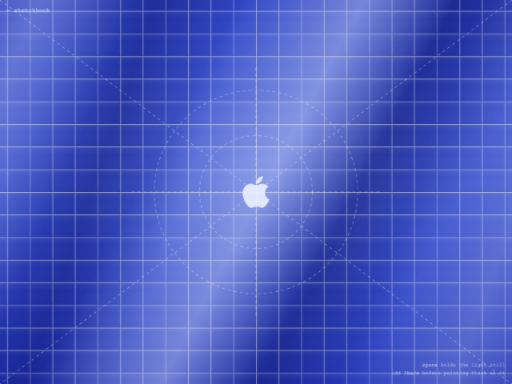
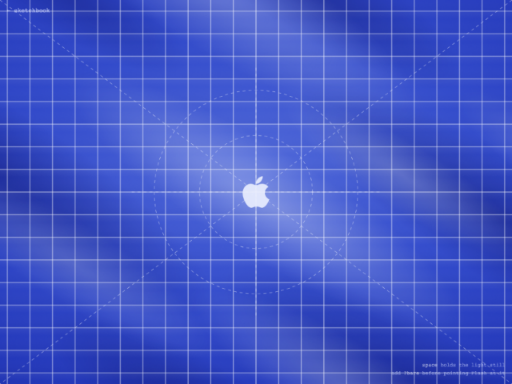
fix(blueprint): dappled shade, and lines drawn whole
The reference's shadows are tree-light, not stripes: the bands become
elongated dapple ellipses clustered where the oversized layer is
actually on screen, all laid on one diagonal by rotating the layer.
And the grid stops drawing itself as pattern-tile edges — a stroke on
a tile edge gets its glow clipped by the tile boundary and every line
came out lopsided. The lines are now whole strokes walked out from the
centre, sharing their coordinates with the crosshair exactly.

diff --git a/sketches/2026-08-blueprint/index.html b/sketches/2026-08-blueprint/index.html
@@ -21,22 +21,31 @@
     #hint kbd { color: #ffffff; font: inherit; }
     body.bare a.back, body.bare #hint { display: none; }
 
-    /* The weather layer: soft diagonal bands of light and shade, oversized so
-       they can wander without ever showing an edge. The softness lives in the
-       gradient stops themselves — no blur filter, so Plash pays almost nothing
-       to keep this on screen all day. */
+    /* The weather layer: dappled light and shade, like sun through leaves,
+       oversized so it can wander without ever showing an edge. Each patch is
+       an ellipse stretched along the layer's x-axis; the whole layer is then
+       rotated in sketch.js so every smear lies on the same diagonal. Softness
+       lives in the gradient falloff — no blur filter, so Plash pays almost
+       nothing to keep this on screen all day. */
     #streaks { position: fixed; inset: 0; overflow: hidden; }
-    .streak { position: absolute; inset: -30%; will-change: transform; }
+    .streak { position: absolute; inset: -75%; will-change: transform; }
+    /* The layer is 2.5x the viewport, so only positions near its middle are
+       ever on screen — the dapple clusters between 28% and 72% on purpose. */
     .streak.light { background:
-      linear-gradient(112deg, transparent 10%, rgba(235,242,255,0.28) 21%, transparent 30%),
-      linear-gradient(118deg, transparent 38%, rgba(240,246,255,0.38) 49%, transparent 57%),
-      linear-gradient(110deg, transparent 63%, rgba(235,242,255,0.24) 74%, transparent 86%);
+      radial-gradient(26% 8% at 50% 50%, rgba(240,246,255,0.32), transparent 70%),
+      radial-gradient(30% 9% at 36% 34%, rgba(240,246,255,0.30), transparent 70%),
+      radial-gradient(22% 7% at 64% 62%, rgba(240,246,255,0.26), transparent 70%),
+      radial-gradient(16% 5% at 58% 40%, rgba(240,246,255,0.22), transparent 70%),
+      radial-gradient(18% 6% at 40% 66%, rgba(235,242,255,0.20), transparent 70%),
+      radial-gradient(14% 5% at 68% 30%, rgba(240,246,255,0.20), transparent 70%);
     }
     .streak.dark { background:
-      linear-gradient(115deg, rgba(10,16,110,0.5) 0%, rgba(10,16,110,0.5) 5%, transparent 16%),
-      linear-gradient(109deg, transparent 26%, rgba(9,15,105,0.45) 35%, transparent 44%),
-      linear-gradient(117deg, transparent 52%, rgba(10,15,100,0.48) 60%, transparent 69%),
-      linear-gradient(112deg, transparent 80%, rgba(9,14,95,0.48) 91%, transparent 100%);
+      radial-gradient(30% 10% at 32% 62%, rgba(10,16,110,0.50), transparent 70%),
+      radial-gradient(26% 9% at 68% 38%, rgba(9,15,105,0.45), transparent 70%),
+      radial-gradient(20% 7% at 46% 28%, rgba(10,15,100,0.40), transparent 70%),
+      radial-gradient(22% 8% at 58% 72%, rgba(9,14,95,0.45), transparent 70%),
+      radial-gradient(16% 6% at 30% 42%, rgba(10,16,105,0.35), transparent 70%),
+      radial-gradient(28% 10% at 72% 58%, rgba(9,14,95,0.40), transparent 70%);
     }
 
     #geometry { position: fixed; inset: 0; width: 100vw; height: 100vh; display: block; }

diff --git a/sketches/2026-08-blueprint/sketch.js b/sketches/2026-08-blueprint/sketch.js
@@ -50,25 +50,23 @@ function rebuild() {
 
   const pat = el('pattern', {
     id: 'grid', width: cell, height: cell, patternUnits: 'userSpaceOnUse',
-    // Anchor the pattern so line crossings land on the exact centre.
+    // Anchor the pattern so tile seams land on the exact centre.
     x: cx % cell, y: cy % cell,
   }, defs);
   el('rect', { width: cell, height: cell, fill: 'url(#bevel)' }, pat);
-  el('rect', {
-    x: 2.5, y: 2.5, width: cell - 5, height: cell - 5, rx: 5,
-    fill: 'none', stroke: 'rgba(255,255,255,0.06)', 'stroke-width': 1,
-  }, pat);
-  // Two strokes per line: a wide faint one underneath reads as glow.
-  el('path', {
-    d: `M ${cell} 0 H 0 V ${cell}`,
-    fill: 'none', stroke: 'rgba(255,255,255,0.18)', 'stroke-width': 3.5,
-  }, pat);
-  el('path', {
-    d: `M ${cell} 0 H 0 V ${cell}`,
-    fill: 'none', stroke: 'rgba(255,255,255,0.65)', 'stroke-width': 1.3,
-  }, pat);
 
   el('rect', { width: w, height: h, fill: 'url(#grid)' }, svg);
+
+  // The lines are drawn whole, not as pattern-tile edges: a stroke on a tile
+  // edge gets its glow clipped by the tile boundary and every line comes out
+  // lopsided. Walking out from the centre also makes the crosshair share its
+  // coordinates with the grid exactly.
+  const glow = el('g', { stroke: 'rgba(255,255,255,0.15)', 'stroke-width': 3.2 }, svg);
+  const core = el('g', { stroke: 'rgba(255,255,255,0.6)', 'stroke-width': 1.2 }, svg);
+  for (const g of [glow, core]) {
+    for (let x = cx % cell; x <= w; x += cell) el('line', { x1: x, y1: 0, x2: x, y2: h }, g);
+    for (let y = cy % cell; y <= h; y += cell) el('line', { x1: 0, y1: y, x2: w, y2: y }, g);
+  }
 
   // Construction marks: corner-to-corner diagonals, two concentric circles,
   // and a crosshair that runs a little past the outer circle.
@@ -113,11 +111,13 @@ let paused = window.matchMedia('(prefers-reduced-motion: reduce)').matches;
 function applyDrift() {
   const w = window.innerWidth;
   const h = window.innerHeight;
+  // rotate() lays every dapple smear on the same diagonal; the ellipses in
+  // the stylesheet are stretched along plain x so they stay easy to author.
   light.style.transform =
-    `translate3d(${(Math.sin(t / 23) * 0.045 * w).toFixed(2)}px, ` +
+    `rotate(32deg) translate3d(${(Math.sin(t / 23) * 0.045 * w).toFixed(2)}px, ` +
     `${(Math.sin(t / 15.5 + 1.7) * 0.03 * h).toFixed(2)}px, 0)`;
   dark.style.transform =
-    `translate3d(${(Math.sin(t / 29 + 3.1) * 0.05 * w).toFixed(2)}px, ` +
+    `rotate(32deg) translate3d(${(Math.sin(t / 29 + 3.1) * 0.05 * w).toFixed(2)}px, ` +
     `${(Math.cos(t / 19) * 0.035 * h).toFixed(2)}px, 0)`;
 }
 
